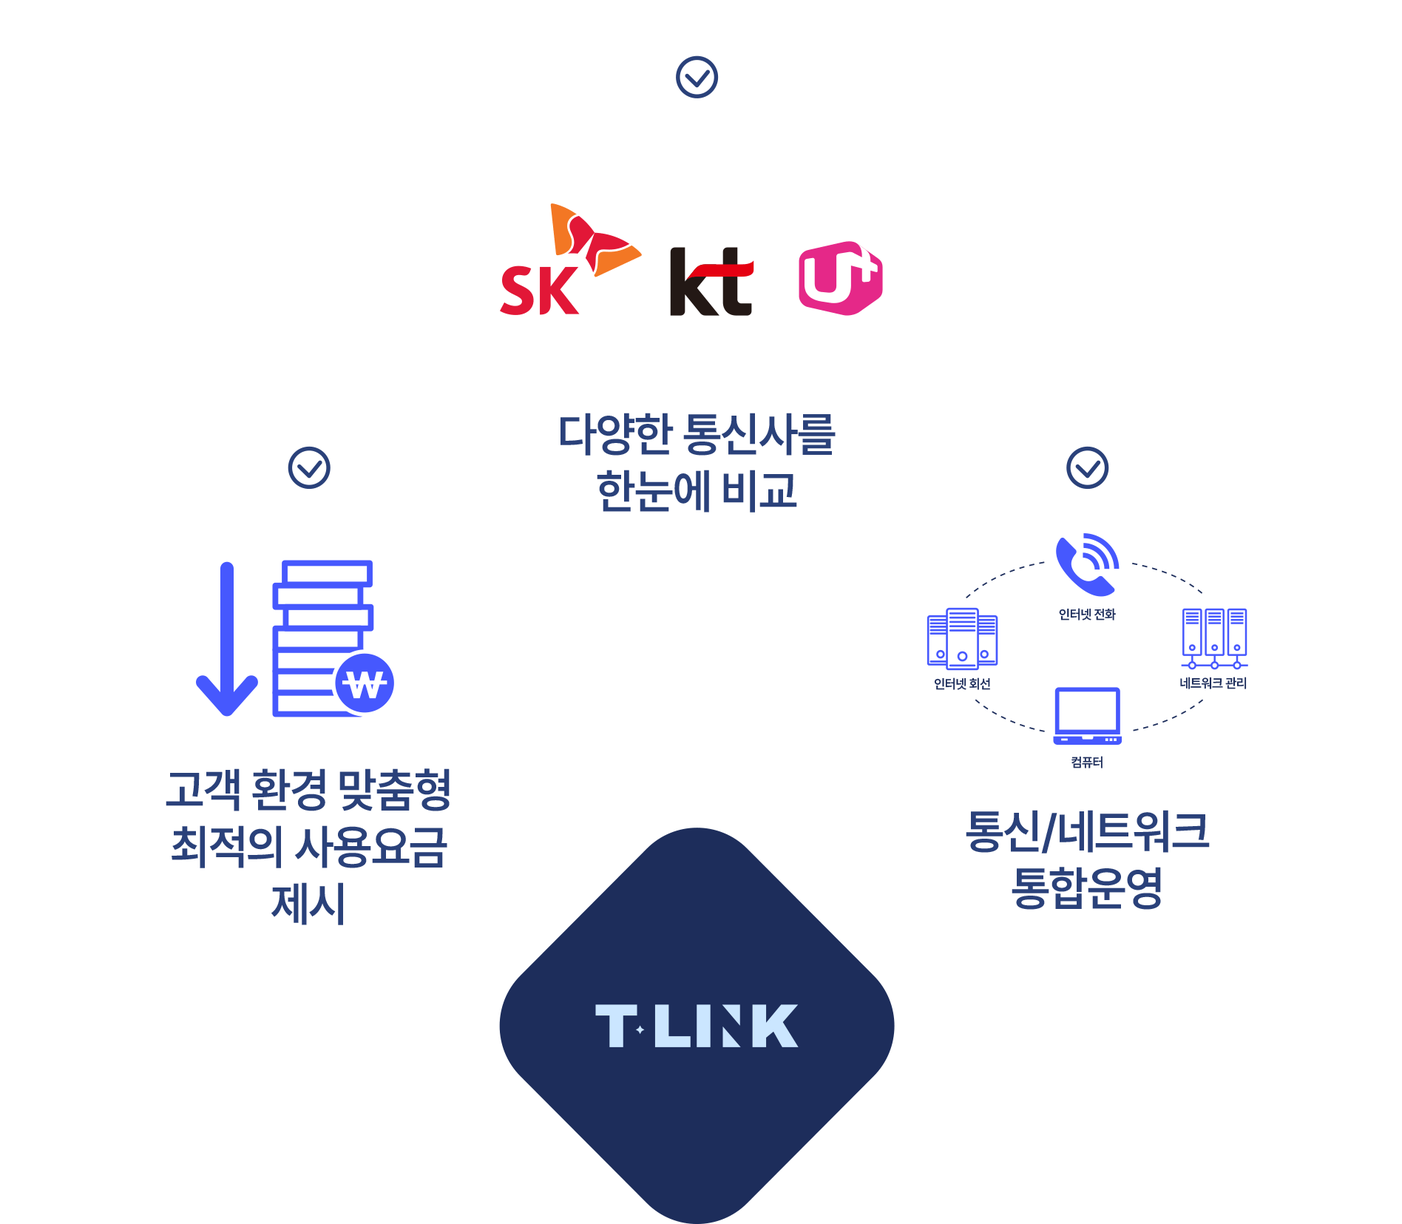
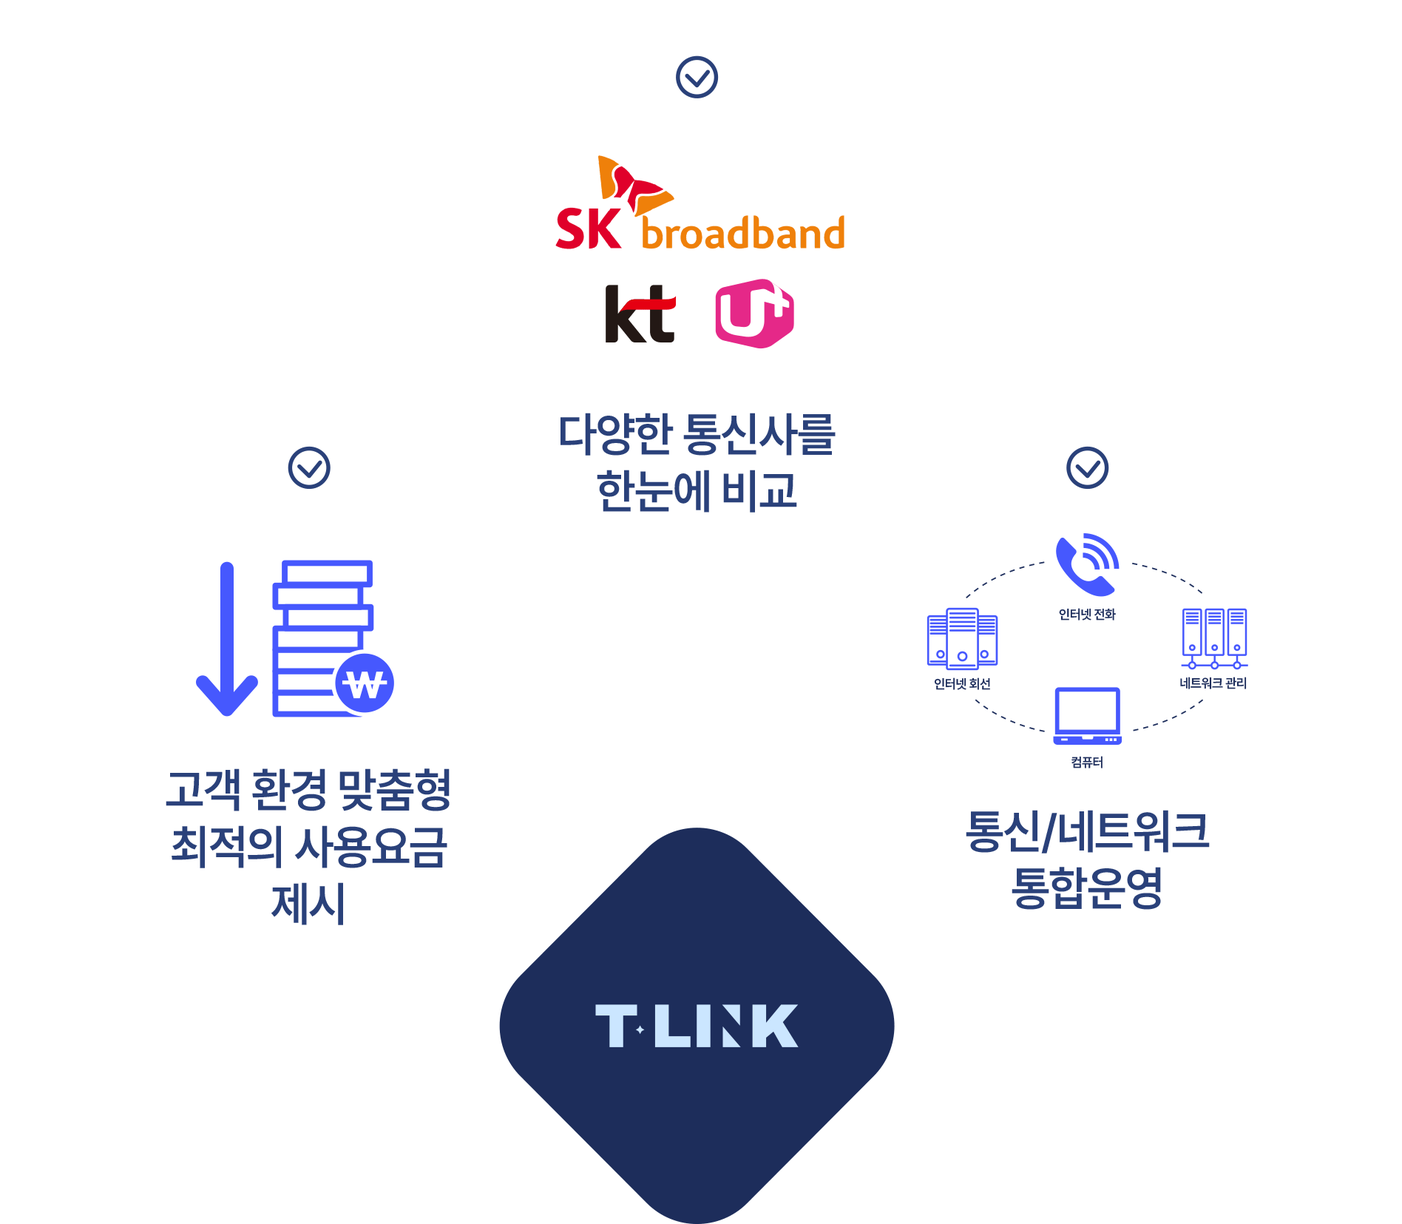
no message

Changed region(s): [[0.3423, 0.1233, 0.6535, 0.3082]]

diff --git a/js/mainLayout241108_1256.js b/js/mainLayout241108_1256.js
@@ -1,5 +1,5 @@
 const mainHTML = `
-<div class="mn-cont">
+    <div class="mn-cont">
         <nav class="pagination-vertical">
             <ul>
                 <li>
@@ -38,9 +38,8 @@ const mainHTML = `
                         </div>
                     </header>
                     <picture>
-                        <source media="(max-width:767px)"
-                            srcset="https://cdn.quv.kr/dftb6o0ka/up/672b1b4cc75b0_1920.png">
-                        <img src="https://cdn.quv.kr/dftb6o0ka/up/672b19c02226c_1920.png" alt="티링크 비즈">
+                        <source media="(max-width:767px)" srcset="https://tlinkjuin.cafe24.com/quvassets/images/biz-mo.png">
+                        <img src="https://tlinkjuin.cafe24.com/quvassets/images/biz.png" alt="티링크 비즈">
                     </picture>
                     <p class="mo mn-txt">티링크 비즈는 인터넷전화기와 PC 폰, 스마트폰을 활용해서<br>
                         어디서든 저렴하고 간편하게 사용 가능한 녹취, 고객관리시스템입니다.<br>
@@ -50,8 +49,8 @@ const mainHTML = `
                 </div>
                 <a href="http://tlinkcrm.co.kr/bizsolution" class="btn-more">더보기</a>
                 <figure class="obj-area">
-                    <img src="https://cdn.quv.kr/dftb6o0ka/up/672b1b4cc6963_1920.png" alt="" class="obj1">
-                    <img src="https://cdn.quv.kr/dftb6o0ka/up/672b1b4cc7f7f_800.png" alt="" class="obj2">
+                    <img src="https://tlinkjuin.cafe24.com/quvassets/images/biz-obj1.png" alt="" class="obj1">
+                    <img src="https://tlinkjuin.cafe24.com/quvassets/images/biz-obj2.png" alt="" class="obj2">
                 </figure>
             </div>
         </section>
@@ -75,9 +74,8 @@ const mainHTML = `
                         </div>
                     </header>
                     <picture>
-                        <source media="(max-width:767px)"
-                            srcset="https://cdn.quv.kr/dftb6o0ka/up/672b1b4cc976d_1920.png">
-                        <img src="https://cdn.quv.kr/dftb6o0ka/up/6730975d9fb8a_1920.png" alt="티링크 비즈">
+                        <source media="(max-width:767px)" srcset="https://tlinkjuin.cafe24.com/quvassets/images/crm-mo.png">
+                        <img src="https://tlinkjuin.cafe24.com/quvassets/images/crm.png" alt="티링크 비즈">
                     </picture>
                     <p class="mo mn-txt">· 외근이나 재택 근무시 사용에 적합<br>
                         · 010 휴대폰번호를 사용하여 통화 성공률 향상<br>
@@ -88,9 +86,9 @@ const mainHTML = `
                 </div>
                 <a href="http://tlinkcrm.co.kr/32" class="btn-more">더보기</a>
                 <figure class="obj-area">
-                    <img src="https://cdn.quv.kr/dftb6o0ka/up/672b1b4ccadfd_1920.png" alt="" class="obj1">
-                    <img src="https://cdn.quv.kr/dftb6o0ka/up/672b1b4ccd1b1_1920.png" alt="" class="obj2">
-                    <img src="https://cdn.quv.kr/dftb6o0ka/up/672b1b4cccb46_1920.png" alt="" class="obj3">
+                    <img src="https://tlinkjuin.cafe24.com/quvassets/images/crm-obj1.png" alt="" class="obj1">
+                    <img src="https://tlinkjuin.cafe24.com/quvassets/images/crm-obj2.png" alt="" class="obj2">
+                    <img src="https://tlinkjuin.cafe24.com/quvassets/images/crm-obj3.png" alt="" class="obj3">
                 </figure>
             </div>
         </section>
@@ -112,9 +110,8 @@ const mainHTML = `
                         </div>
                     </header>
                     <picture>
-                        <source media="(max-width:767px)"
-                            srcset="https://cdn.quv.kr/dftb6o0ka/up/672b1b4d1a2c0_1920.png">
-                        <img src="https://cdn.quv.kr/dftb6o0ka/up/672b1b4d2ab2f_1920.png" alt="">
+                        <source media="(max-width:767px)" srcset="https://tlinkjuin.cafe24.com/quvassets/images/pcphone-mo.png">
+                        <img src="https://tlinkjuin.cafe24.com/quvassets/images/pcphone.png" alt="">
                     </picture>
                     <p class="mo mn-txt">
                         · 인터넷전화기와 PC폰 중 필요에 따라 선택하여 사용 가능<br>
@@ -123,8 +120,8 @@ const mainHTML = `
                 </div>
                 <a href="http://tlinkcrm.co.kr/softphone" class="btn-more">더보기</a>
                 <figure class="obj-area">
-                    <img src="https://cdn.quv.kr/dftb6o0ka/up/672b1b4cd04f0_1920.png" alt="" class="obj1">
-                    <img src="https://cdn.quv.kr/dftb6o0ka/up/672b1b4d1e0f5_800.png" alt="" class="obj2">
+                    <img src="https://tlinkjuin.cafe24.com/quvassets/images/pcphone-obj1.png" alt="" class="obj1">
+                    <img src="https://tlinkjuin.cafe24.com/quvassets/images/pcphone-obj2.png" alt="" class="obj2">
                 </figure>
             </div>
         </section>
@@ -147,9 +144,8 @@ const mainHTML = `
                         </div>
                     </header>
                     <picture>
-                        <source media="(max-width:767px)"
-                            srcset="https://cdn.quv.kr/dftb6o0ka/up/672b1b4cc4f3e_1920.png">
-                        <img src="https://cdn.quv.kr/dftb6o0ka/up/672b1b4cc717d_1920.png" alt="">
+                        <source media="(max-width:767px)" srcset="https://tlinkjuin.cafe24.com/quvassets/images/company-mo.png" alt="">
+                        <img src="https://tlinkjuin.cafe24.com/quvassets/images/company.png" alt="">
                     </picture>
                     <p class="mo mn-txt">기업용 인터넷, 인터넷전화, 전국대표번호, 휴대폰 등<br>
                         고객사 환경에 가장 유리한 쪽으로 개통하여 드립니다.<br>
@@ -157,8 +153,8 @@ const mainHTML = `
                 </div>
                 <a href="http://tlinkcrm.co.kr/13#tab-1W58RO" class="btn-more">더보기</a>
                 <figure class="obj-area">
-                    <img src="https://cdn.quv.kr/dftb6o0ka/up/672b1b4cc7406_1920.png" alt="" class="obj1">
-                    <img src="https://cdn.quv.kr/dftb6o0ka/up/672b1b4cc83be_800.png" alt="" class="obj2">
+                    <img src="https://tlinkjuin.cafe24.com/quvassets/images/company-obj1.png" alt="" class="obj1">
+                    <img src="https://tlinkjuin.cafe24.com/quvassets/images/company-obj2.png" alt="" class="obj2">
                 </figure>
             </div>
         </section>
@@ -175,16 +171,15 @@ const mainHTML = `
                         </div>
                     </header>
                     <picture>
-                        <source media="(max-width:767px)"
-                            srcset="https://cdn.quv.kr/dftb6o0ka/up/672b1b4d15117_1920.png">
-                        <img src="https://cdn.quv.kr/dftb6o0ka/up/672b1b4d17be6_1920.png" alt="">
+                        <source media="(max-width:767px)" srcset="https://tlinkjuin.cafe24.com/quvassets/images/network-mo.png">
+                        <img src="https://tlinkjuin.cafe24.com/quvassets/images/network.png" alt="">
                     </picture>
                     <p class="mo mn-txt"></p>
                 </div>
                 <a href="http://tlinkcrm.co.kr/18#tab-2W58RO" class="btn-more">더보기</a>
                 <figure class="obj-area">
-                    <img src="https://cdn.quv.kr/dftb6o0ka/up/672b1b4d17e31_1920.png" alt="" class="obj1">
-                    <img src="https://cdn.quv.kr/dftb6o0ka%2Fup%2F672d4cafb55a9_800.png" alt="" class="obj2">
+                    <img src="https://tlinkjuin.cafe24.com/quvassets/images/network-obj1.png" alt="" class="obj1">
+                    <img src="https://tlinkjuin.cafe24.com/quvassets/images/network-obj2.png" alt="" class="obj2">
                 </figure>
             </div>
         </section>
@@ -193,33 +188,41 @@ const mainHTML = `
                 <div class="cont">
                     <h2 class="mn-tit-sm"><span>고객지원</span></h2>
                     <ul>
-                        <li><a href="https://smartstore.naver.com/tlink" target="_blank">
-                                <img src="https://cdn.quv.kr/dftb6o0ka/up/672b1b4d5420b_800.png" alt="">
-                            <cite>티링크 스토어</cite></a>
+                        <li>
+                            <a href="https://smartstore.naver.com/tlink" target="_blank">
+                                <img src="https://tlinkjuin.cafe24.com/quvassets/images/support1.png" alt="">
+                                <cite>티링크 스토어</cite>
+                            </a>
                         </li>
-                        <li><a href="http://tlinkcrm.co.kr/9">
-                                <img src="https://cdn.quv.kr/dftb6o0ka/up/672b1b4d55cf1_800.png" alt="">
+                        <li>
+                            <a href="http://tlinkcrm.co.kr/9">
+                                <img src="https://tlinkjuin.cafe24.com/quvassets/images/support2.png" alt="">
                                 <cite>상담신청</cite>
-                            </a></li>
-                        <li><a href="http://tlinkcrm.co.kr/qna">
-                                <img src="https://cdn.quv.kr/dftb6o0ka/up/672b1b4d5b392_800.png" alt="">
+                            </a>
+                        </li>
+                        <li>
+                            <a href="http://tlinkcrm.co.kr/qna">
+                                <img src="https://tlinkjuin.cafe24.com/quvassets/images/support3.png" alt="">
                                 <cite>문의 게시판</cite>
-                            </a></li>
-                        <li><a href="http://tlinkcrm.co.kr/data">
-                                <img src="https://cdn.quv.kr/dftb6o0ka/up/672b1b4d5cce1_800.png" alt="">
+                            </a>
+                        </li>
+                        <li>
+                            <a href="http://tlinkcrm.co.kr/data">
+                                <img src="https://tlinkjuin.cafe24.com/quvassets/images/support4.png" alt="">
                                 <cite>자료실</cite>
-                            </a></li>
+                            </a>
+                        </li>
                     </ul>
                 </div>
                 <figure class="obj-area">
-                    <img src="https://cdn.quv.kr/dftb6o0ka/up/672b1b4cd04f0_1920.png" alt="" class="obj1">
+                    <img src="https://tlinkjuin.cafe24.com/quvassets/images/support-obj.png" alt="" class="obj1">
                 </figure>
             </div>
         </section>
         <section class="mn-section bg-dark h-auto mn-cs">
             <div class="wrap">
                 <div class="cont">
-                    <h2><img src="https://cdn.quv.kr/dftb6o0ka/up/672b1b4d0d193_1920.png" alt="TLINK"></h2>
+                    <h2><img src="https://tlinkjuin.cafe24.com/quvassets/images/logo-wh.png" alt="TLINK"></h2>
                     <p><strong>티링크</strong>의 <strong>스마트 비지니스 서비스</strong>를 지금 경험하세요!</p>
                     <a href="tel:1877-3836">
                         <dl>
@@ -230,7 +233,7 @@ const mainHTML = `
                 </div>
     
                 <figure class="obj-area">
-                    <img src="https://cdn.quv.kr/dftb6o0ka/up/672b1b4cc7406_1920.png" alt="" class="obj1">
+                    <img src="https://tlinkjuin.cafe24.com/quvassets/images/cs-obj1.png" alt="" class="obj1">
                 </figure>
             </div>
         </section>

diff --git a/markup.html b/markup.html
@@ -57,9 +57,8 @@
                         </div>
                     </header>
                     <picture>
-                        <source media="(max-width:767px)"
-                            srcset="https://cdn.quv.kr/dftb6o0ka/up/672b1b4cc75b0_1920.png">
-                        <img src="https://cdn.quv.kr/dftb6o0ka/up/672b19c02226c_1920.png" alt="티링크 비즈">
+                        <source media="(max-width:767px)" srcset="https://tlinkjuin.cafe24.com/quvassets/images/biz-mo.png">
+                        <img src="https://tlinkjuin.cafe24.com/quvassets/images/biz.png" alt="티링크 비즈">
                     </picture>
                     <p class="mo mn-txt">티링크 비즈는 인터넷전화기와 PC 폰, 스마트폰을 활용해서<br>
                         어디서든 저렴하고 간편하게 사용 가능한 녹취, 고객관리시스템입니다.<br>
@@ -69,8 +68,8 @@
                 </div>
                 <a href="http://tlinkcrm.co.kr/bizsolution" class="btn-more">더보기</a>
                 <figure class="obj-area">
-                    <img src="https://cdn.quv.kr/dftb6o0ka/up/672b1b4cc6963_1920.png" alt="" class="obj1">
-                    <img src="https://cdn.quv.kr/dftb6o0ka/up/672b1b4cc7f7f_800.png" alt="" class="obj2">
+                    <img src="https://tlinkjuin.cafe24.com/quvassets/images/biz-obj1.png" alt="" class="obj1">
+                    <img src="https://tlinkjuin.cafe24.com/quvassets/images/biz-obj2.png" alt="" class="obj2">
                 </figure>
             </div>
         </section>
@@ -94,9 +93,8 @@
                         </div>
                     </header>
                     <picture>
-                        <source media="(max-width:767px)"
-                            srcset="https://cdn.quv.kr/dftb6o0ka/up/672b1b4cc976d_1920.png">
-                        <img src="https://cdn.quv.kr/dftb6o0ka/up/6730975d9fb8a_1920.png" alt="티링크 비즈">
+                        <source media="(max-width:767px)" srcset="https://tlinkjuin.cafe24.com/quvassets/images/crm-mo.png">
+                        <img src="https://tlinkjuin.cafe24.com/quvassets/images/crm.png" alt="티링크 비즈">
                     </picture>
                     <p class="mo mn-txt">· 외근이나 재택 근무시 사용에 적합<br>
                         · 010 휴대폰번호를 사용하여 통화 성공률 향상<br>
@@ -107,9 +105,9 @@
                 </div>
                 <a href="http://tlinkcrm.co.kr/32" class="btn-more">더보기</a>
                 <figure class="obj-area">
-                    <img src="https://cdn.quv.kr/dftb6o0ka/up/672b1b4ccadfd_1920.png" alt="" class="obj1">
-                    <img src="https://cdn.quv.kr/dftb6o0ka/up/672b1b4ccd1b1_1920.png" alt="" class="obj2">
-                    <img src="https://cdn.quv.kr/dftb6o0ka/up/672b1b4cccb46_1920.png" alt="" class="obj3">
+                    <img src="https://tlinkjuin.cafe24.com/quvassets/images/crm-obj1.png" alt="" class="obj1">
+                    <img src="https://tlinkjuin.cafe24.com/quvassets/images/crm-obj2.png" alt="" class="obj2">
+                    <img src="https://tlinkjuin.cafe24.com/quvassets/images/crm-obj3.png" alt="" class="obj3">
                 </figure>
             </div>
         </section>
@@ -131,9 +129,8 @@
                         </div>
                     </header>
                     <picture>
-                        <source media="(max-width:767px)"
-                            srcset="https://cdn.quv.kr/dftb6o0ka/up/672b1b4d1a2c0_1920.png">
-                        <img src="https://cdn.quv.kr/dftb6o0ka/up/672b1b4d2ab2f_1920.png" alt="">
+                        <source media="(max-width:767px)" srcset="https://tlinkjuin.cafe24.com/quvassets/images/pcphone-mo.png">
+                        <img src="https://tlinkjuin.cafe24.com/quvassets/images/pcphone.png" alt="">
                     </picture>
                     <p class="mo mn-txt">
                         · 인터넷전화기와 PC폰 중 필요에 따라 선택하여 사용 가능<br>
@@ -142,8 +139,8 @@
                 </div>
                 <a href="http://tlinkcrm.co.kr/softphone" class="btn-more">더보기</a>
                 <figure class="obj-area">
-                    <img src="https://cdn.quv.kr/dftb6o0ka/up/672b1b4cd04f0_1920.png" alt="" class="obj1">
-                    <img src="https://cdn.quv.kr/dftb6o0ka/up/672b1b4d1e0f5_800.png" alt="" class="obj2">
+                    <img src="https://tlinkjuin.cafe24.com/quvassets/images/pcphone-obj1.png" alt="" class="obj1">
+                    <img src="https://tlinkjuin.cafe24.com/quvassets/images/pcphone-obj2.png" alt="" class="obj2">
                 </figure>
             </div>
         </section>
@@ -166,9 +163,8 @@
                         </div>
                     </header>
                     <picture>
-                        <source media="(max-width:767px)"
-                            srcset="https://cdn.quv.kr/dftb6o0ka/up/672b1b4cc4f3e_1920.png" alt="">
-                        <img src="https://cdn.quv.kr/dftb6o0ka%2Fup%2F6731a0a4deac2_1920.png" alt="">
+                        <source media="(max-width:767px)" srcset="https://tlinkjuin.cafe24.com/quvassets/images/company-mo.png" alt="">
+                        <img src="https://tlinkjuin.cafe24.com/quvassets/images/company.png" alt="">
                     </picture>
                     <p class="mo mn-txt">기업용 인터넷, 인터넷전화, 전국대표번호, 휴대폰 등<br>
                         고객사 환경에 가장 유리한 쪽으로 개통하여 드립니다.<br>
@@ -176,8 +172,8 @@
                 </div>
                 <a href="http://tlinkcrm.co.kr/13#tab-1W58RO" class="btn-more">더보기</a>
                 <figure class="obj-area">
-                    <img src="https://cdn.quv.kr/dftb6o0ka/up/672b1b4cc7406_1920.png" alt="" class="obj1">
-                    <img src="https://cdn.quv.kr/dftb6o0ka/up/672b1b4cc83be_800.png" alt="" class="obj2">
+                    <img src="https://tlinkjuin.cafe24.com/quvassets/images/company-obj1.png" alt="" class="obj1">
+                    <img src="https://tlinkjuin.cafe24.com/quvassets/images/company-obj2.png" alt="" class="obj2">
                 </figure>
             </div>
         </section>
@@ -194,16 +190,15 @@
                         </div>
                     </header>
                     <picture>
-                        <source media="(max-width:767px)"
-                            srcset="https://cdn.quv.kr/dftb6o0ka/up/672b1b4d15117_1920.png">
-                        <img src="https://cdn.quv.kr/dftb6o0ka%2Fup%2F6731a0bff3b05_1920.png" alt="">
+                        <source media="(max-width:767px)" srcset="https://tlinkjuin.cafe24.com/quvassets/images/network-mo.png">
+                        <img src="https://tlinkjuin.cafe24.com/quvassets/images/network.png" alt="">
                     </picture>
                     <p class="mo mn-txt"></p>
                 </div>
                 <a href="http://tlinkcrm.co.kr/18#tab-2W58RO" class="btn-more">더보기</a>
                 <figure class="obj-area">
-                    <img src="https://cdn.quv.kr/dftb6o0ka/up/672b1b4d17e31_1920.png" alt="" class="obj1">
-                    <img src="https://cdn.quv.kr/dftb6o0ka%2Fup%2F672d4cafb55a9_800.png" alt="" class="obj2">
+                    <img src="https://tlinkjuin.cafe24.com/quvassets/images/network-obj1.png" alt="" class="obj1">
+                    <img src="https://tlinkjuin.cafe24.com/quvassets/images/network-obj2.png" alt="" class="obj2">
                 </figure>
             </div>
         </section>
@@ -212,33 +207,41 @@
                 <div class="cont">
                     <h2 class="mn-tit-sm"><span>고객지원</span></h2>
                     <ul>
-                        <li><a href="https://smartstore.naver.com/tlink" target="_blank">
-                                <img src="https://cdn.quv.kr/dftb6o0ka/up/672b1b4d5420b_800.png" alt="">
-                            <cite>티링크 스토어</cite></a>
+                        <li>
+                            <a href="https://smartstore.naver.com/tlink" target="_blank">
+                                <img src="https://tlinkjuin.cafe24.com/quvassets/images/support1.png" alt="">
+                                <cite>티링크 스토어</cite>
+                            </a>
                         </li>
-                        <li><a href="http://tlinkcrm.co.kr/9">
-                                <img src="https://cdn.quv.kr/dftb6o0ka/up/672b1b4d55cf1_800.png" alt="">
+                        <li>
+                            <a href="http://tlinkcrm.co.kr/9">
+                                <img src="https://tlinkjuin.cafe24.com/quvassets/images/support2.png" alt="">
                                 <cite>상담신청</cite>
-                            </a></li>
-                        <li><a href="http://tlinkcrm.co.kr/qna">
-                                <img src="https://cdn.quv.kr/dftb6o0ka/up/672b1b4d5b392_800.png" alt="">
+                            </a>
+                        </li>
+                        <li>
+                            <a href="http://tlinkcrm.co.kr/qna">
+                                <img src="https://tlinkjuin.cafe24.com/quvassets/images/support3.png" alt="">
                                 <cite>문의 게시판</cite>
-                            </a></li>
-                        <li><a href="http://tlinkcrm.co.kr/data">
-                                <img src="https://cdn.quv.kr/dftb6o0ka/up/672b1b4d5cce1_800.png" alt="">
+                            </a>
+                        </li>
+                        <li>
+                            <a href="http://tlinkcrm.co.kr/data">
+                                <img src="https://tlinkjuin.cafe24.com/quvassets/images/support4.png" alt="">
                                 <cite>자료실</cite>
-                            </a></li>
+                            </a>
+                        </li>
                     </ul>
                 </div>
                 <figure class="obj-area">
-                    <img src="https://cdn.quv.kr/dftb6o0ka/up/672b1b4cd04f0_1920.png" alt="" class="obj1">
+                    <img src="https://tlinkjuin.cafe24.com/quvassets/images/support-obj.png" alt="" class="obj1">
                 </figure>
             </div>
         </section>
         <section class="mn-section bg-dark h-auto mn-cs">
             <div class="wrap">
                 <div class="cont">
-                    <h2><img src="https://cdn.quv.kr/dftb6o0ka/up/672b1b4d0d193_1920.png" alt="TLINK"></h2>
+                    <h2><img src="https://tlinkjuin.cafe24.com/quvassets/images/logo-wh.png" alt="TLINK"></h2>
                     <p><strong>티링크</strong>의 <strong>스마트 비지니스 서비스</strong>를 지금 경험하세요!</p>
                     <a href="tel:1877-3836">
                         <dl>
@@ -249,7 +252,7 @@
                 </div>
     
                 <figure class="obj-area">
-                    <img src="https://cdn.quv.kr/dftb6o0ka/up/672b1b4cc7406_1920.png" alt="" class="obj1">
+                    <img src="https://tlinkjuin.cafe24.com/quvassets/images/cs-obj1.png" alt="" class="obj1">
                 </figure>
             </div>
         </section>

diff --git a/css/style.scss b/css/style.scss
@@ -462,6 +462,7 @@ button {
         img {
             display: block;
             margin:0 auto;
+            max-width:180px;
         }
     }
     p {

diff --git a/css/style.css b/css/style.css
@@ -530,6 +530,7 @@ button:focus {
 .mn-cs h2 img {
   display: block;
   margin: 0 auto;
+  max-width: 180px;
 }
 .mn-cs p {
   font-size: 42px;
